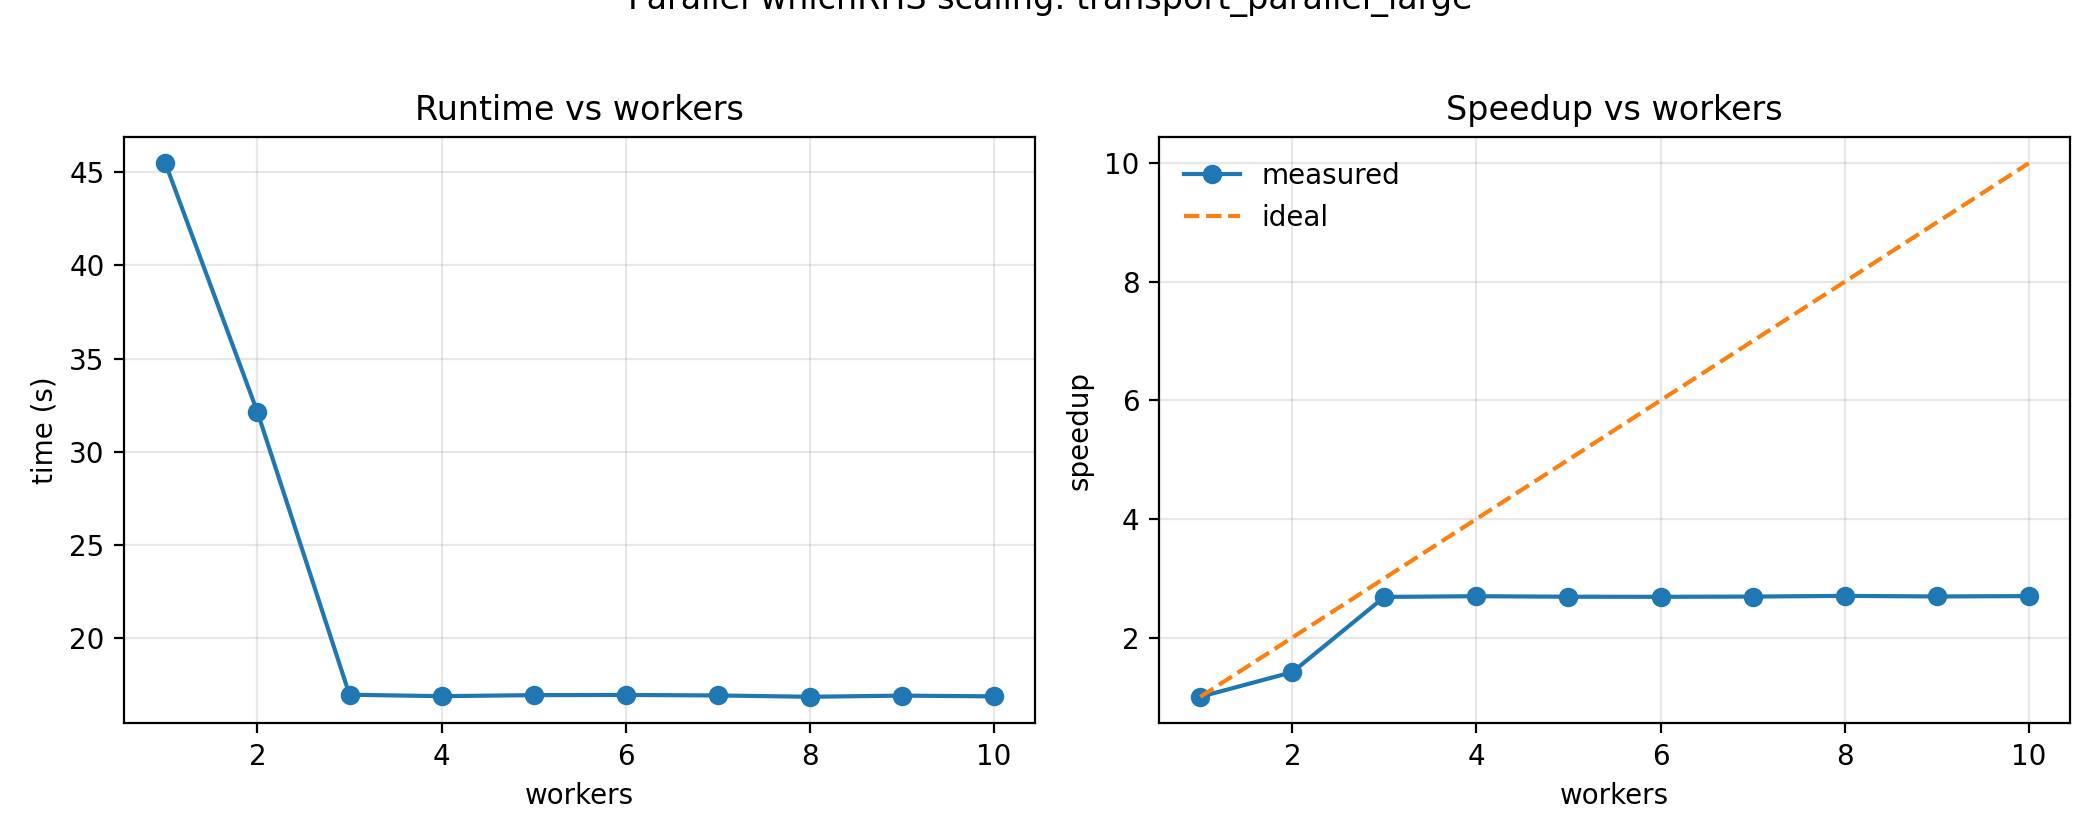
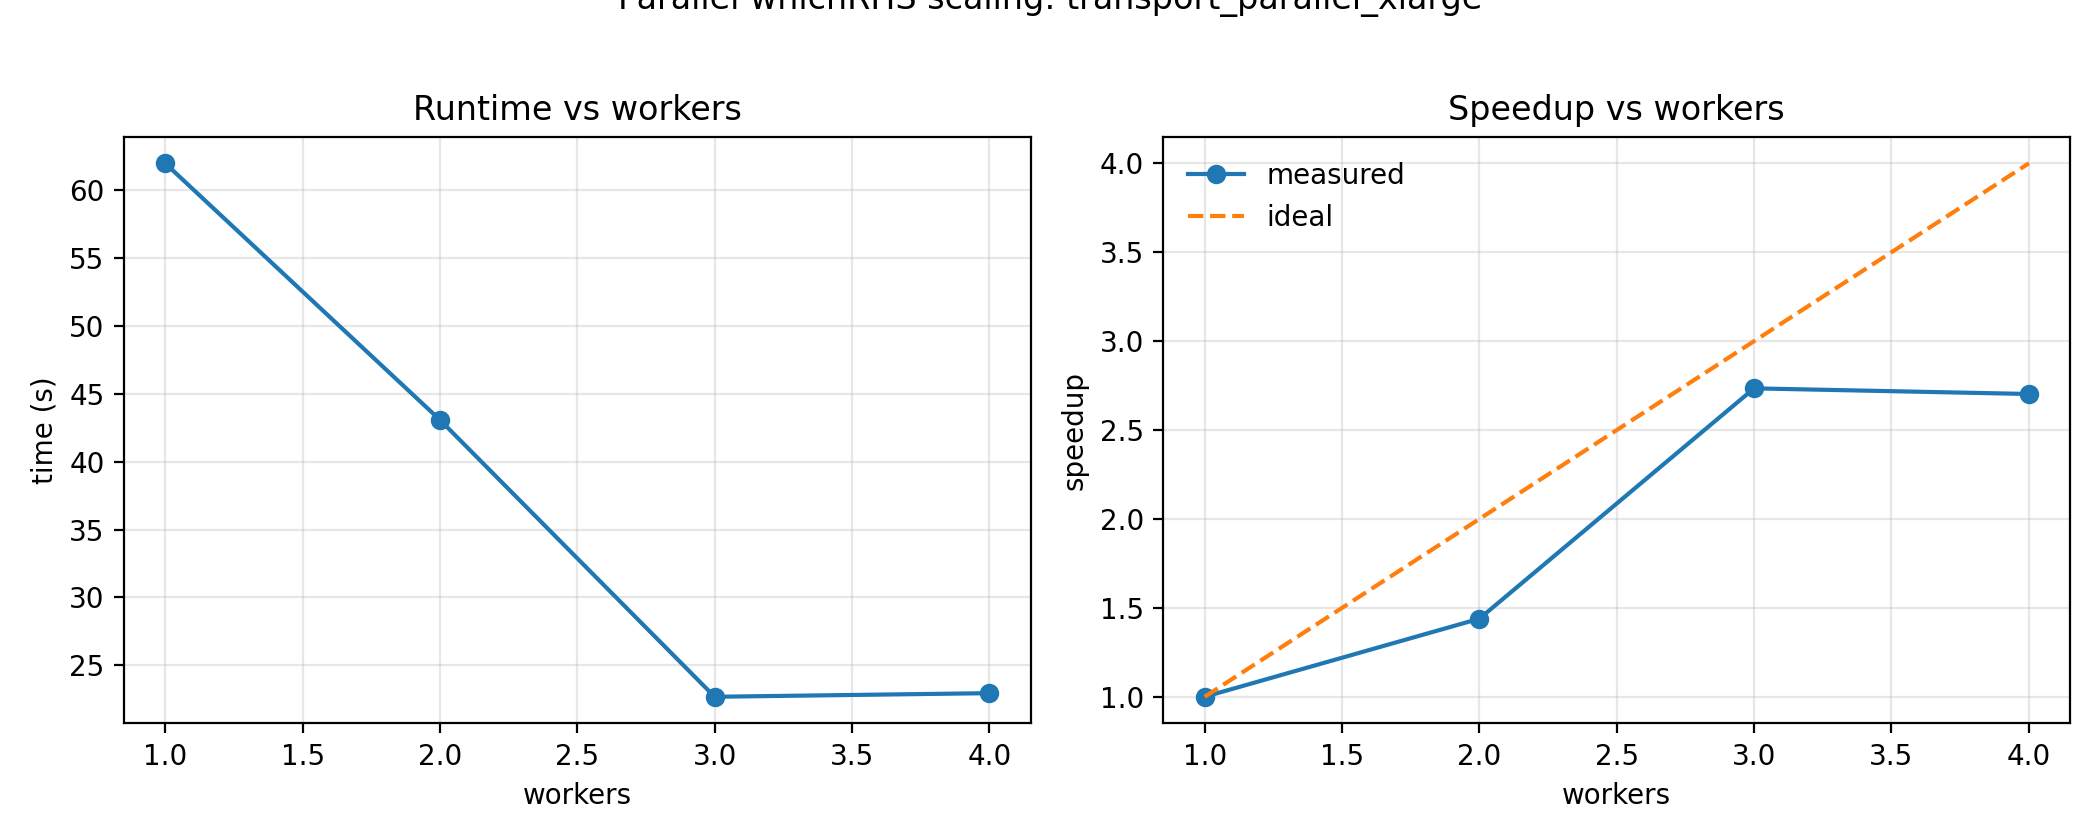
Add 1-4 core scaling benchmark for xlarge case

diff --git a/examples/performance/benchmark_transport_parallel_scaling.py b/examples/performance/benchmark_transport_parallel_scaling.py
@@ -45,7 +45,7 @@ def _run_once(
 def main() -> None:
     parser = argparse.ArgumentParser(description="Benchmark parallel whichRHS scaling.")
     repo_root = Path(__file__).resolve().parents[2]
-    default_input = repo_root / "examples" / "performance" / "transport_parallel_large.input.namelist"
+    default_input = repo_root / "examples" / "performance" / "transport_parallel_xlarge.input.namelist"
     default_out = repo_root / "examples" / "performance" / "output" / "transport_parallel_scaling"
     default_cache = default_out / "jax_cache"
 
@@ -59,8 +59,8 @@ def main() -> None:
         "--workers",
         type=int,
         nargs="+",
-        default=list(range(1, 11)),
-        help="Worker counts to benchmark (default 1..10).",
+        default=list(range(1, 5)),
+        help="Worker counts to benchmark (default 1..4).",
     )
     parser.add_argument("--repeats", type=int, default=2, help="Repeats per worker count.")
     parser.add_argument("--warmup", type=int, default=0, help="Warmup runs per worker count.")

diff --git a/docs/parallelism.rst b/docs/parallelism.rst
@@ -133,17 +133,22 @@ so worker processes can import the main module cleanly.
 
 **Measured scaling (Macbook M3 Max, 14‑core)**
 
-Benchmark case: `examples/performance/transport_parallel_large.input.namelist`
-(RHSMode=2, geometryScheme=2, Nxi=6, Nx=4).
+Benchmark case: `examples/performance/transport_parallel_xlarge.input.namelist`
+(RHSMode=2, geometryScheme=2, Ntheta=15, Nzeta=15, Nxi=6, Nx=4).
 
 Benchmark preconditioner: `SFINCS_JAX_TRANSPORT_PRECOND=xmg` to keep the
-single‑worker runtime in the 30‑45 s range while preserving parity.
+single‑worker runtime in the 1–2 minute range while preserving parity.
+You can override this via `--precond` in the benchmark script.
 
 Command:
 
 .. code-block:: bash
 
-   python examples/performance/benchmark_transport_parallel_scaling.py --repeats 1
+   python examples/performance/benchmark_transport_parallel_scaling.py \
+     --workers 1 2 3 4 \
+     --repeats 1 \
+     --warmup 1 \
+     --global-warmup 1
 
 Results (single run per worker count, JAX cache warm‑up enabled):
 
@@ -154,34 +159,16 @@ Results (single run per worker count, JAX cache warm‑up enabled):
      - Mean time (s)
      - Speedup
    * - 1
-     - 45.48
+     - 62.00
      - 1.00
    * - 2
-     - 32.12
-     - 1.42
+     - 43.09
+     - 1.44
    * - 3
-     - 16.94
-     - 2.68
+     - 22.67
+     - 2.73
    * - 4
-     - 16.86
-     - 2.70
-   * - 5
-     - 16.92
-     - 2.69
-   * - 6
-     - 16.93
-     - 2.69
-   * - 7
-     - 16.90
-     - 2.69
-   * - 8
-     - 16.83
-     - 2.70
-   * - 9
-     - 16.89
-     - 2.69
-   * - 10
-     - 16.85
+     - 22.94
      - 2.70
 
 .. figure:: _static/figures/parallel/transport_parallel_scaling.png
@@ -194,6 +181,23 @@ For this larger case, scaling reaches ~2.7× by 3–4 workers before flattening.
 The plateau reflects process overhead and shared‑resource contention on a
 laptop‑class CPU. Larger multi‑RHS runs on server‑class nodes should show
 stronger scaling.
+
+Earlier runs (smaller grids)
+----------------------------
+
+We also benchmarked smaller RHSMode=2 cases (7–45 s single‑worker time). These
+showed weaker scaling because process startup and JIT overheads dominate at
+small problem sizes. The longer xlarge case above is required to observe clear
+speedup on laptop CPUs.
+
+JIT/compilation notes
+---------------------
+
+To avoid skew from compilation:
+
+- The benchmark script performs a **global warm‑up** run (workers=1).
+- Each worker count performs a **per‑worker warm‑up** (not timed).
+- A persistent `JAX_CACHE_DIR` is used so processes can reuse compiled kernels.
 
 
 Step (2): Parallel cases / scans

diff --git a/README.md b/README.md
@@ -57,26 +57,36 @@ reduce overhead in tiny PAS/transport cases while keeping large systems compiled
 
 ## Parallel Scaling (Macbook M3 Max)
 
-Parallel `whichRHS` scaling for a larger RHSMode=2 transport‑matrix case
-(`examples/performance/transport_parallel_large.input.namelist`, geometryScheme=2).
+Parallel `whichRHS` scaling for an extra‑large RHSMode=2 transport‑matrix case
+(`examples/performance/transport_parallel_xlarge.input.namelist`, geometryScheme=2).
 Benchmark uses `SFINCS_JAX_TRANSPORT_PRECOND=xmg` to keep the single‑worker runtime
-in the 30–45 s range.
+in the 1–2 minute range.
 
 ![Parallel whichRHS scaling](docs/_static/figures/parallel/transport_parallel_scaling.png)
 
 Reproduce the scaling figure and JSON summary:
 
 ```bash
-python examples/performance/benchmark_transport_parallel_scaling.py --repeats 1
+python examples/performance/benchmark_transport_parallel_scaling.py \
+  --workers 1 2 3 4 \
+  --repeats 1 \
+  --warmup 1 \
+  --global-warmup 1
 ```
 
 Run with explicit worker counts and a custom input:
 
 ```bash
 python examples/performance/benchmark_transport_parallel_scaling.py \
-  --input examples/performance/transport_parallel_large.input.namelist \
-  --workers 1 2 4 6 8 10 \
-  --repeats 1
+  --input examples/performance/transport_parallel_xlarge.input.namelist \
+  --workers 1 2 3 4 \
+  --repeats 1 \
+  --warmup 1 \
+  --global-warmup 1
+
+JIT note: the benchmark performs a global warm‑up and a per‑worker warm‑up so
+timings exclude compilation. A persistent JAX cache is used automatically.
+Override the transport preconditioner with `--precond` if needed.
 ```
 
 Enable parallel whichRHS solves in normal runs:
